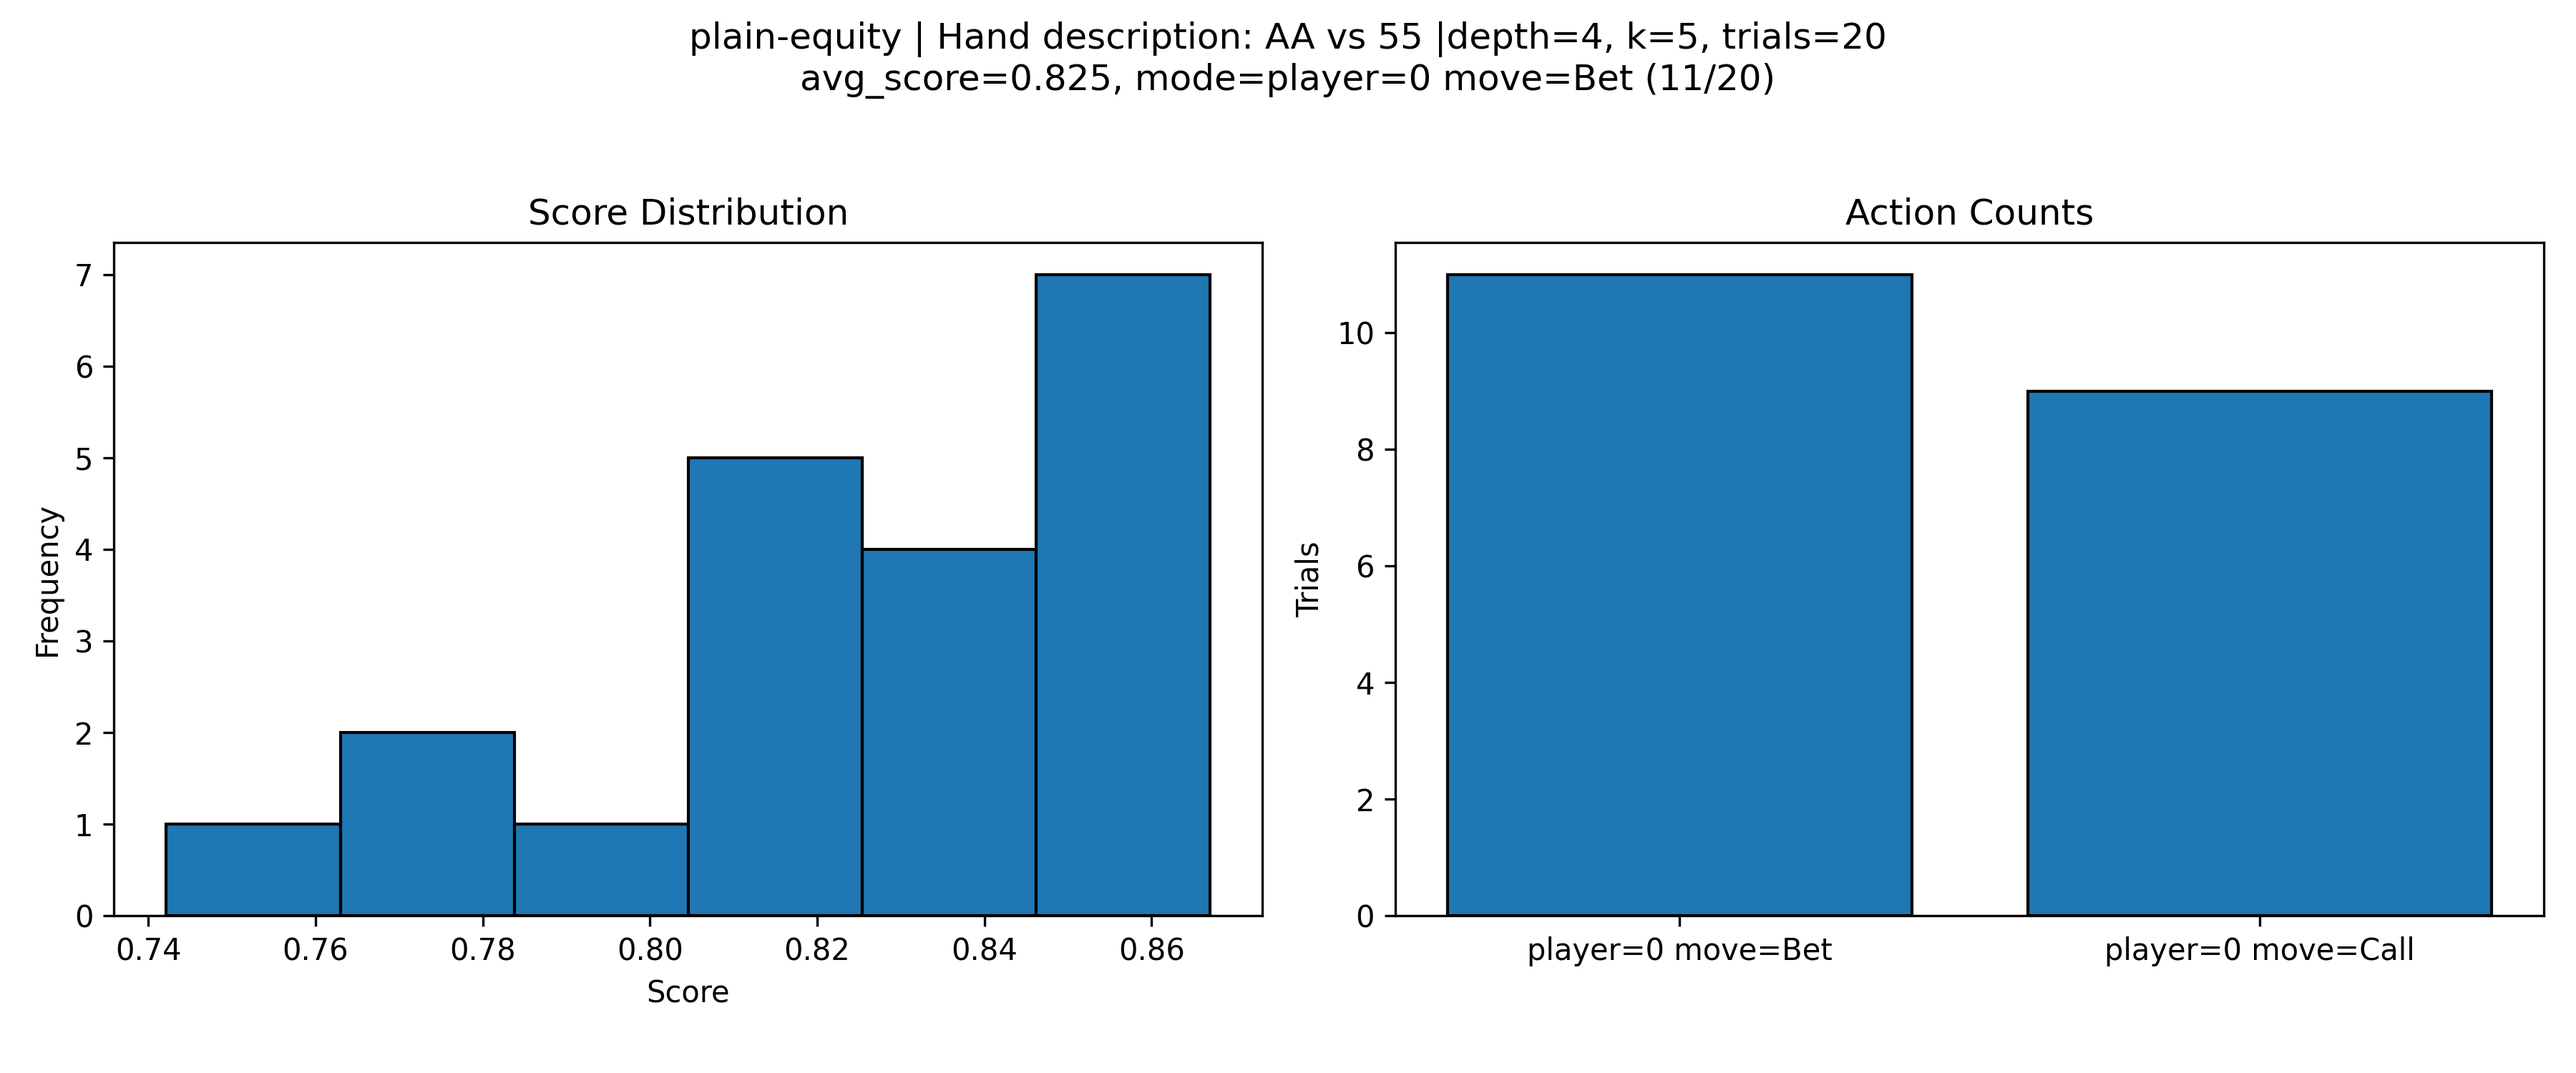
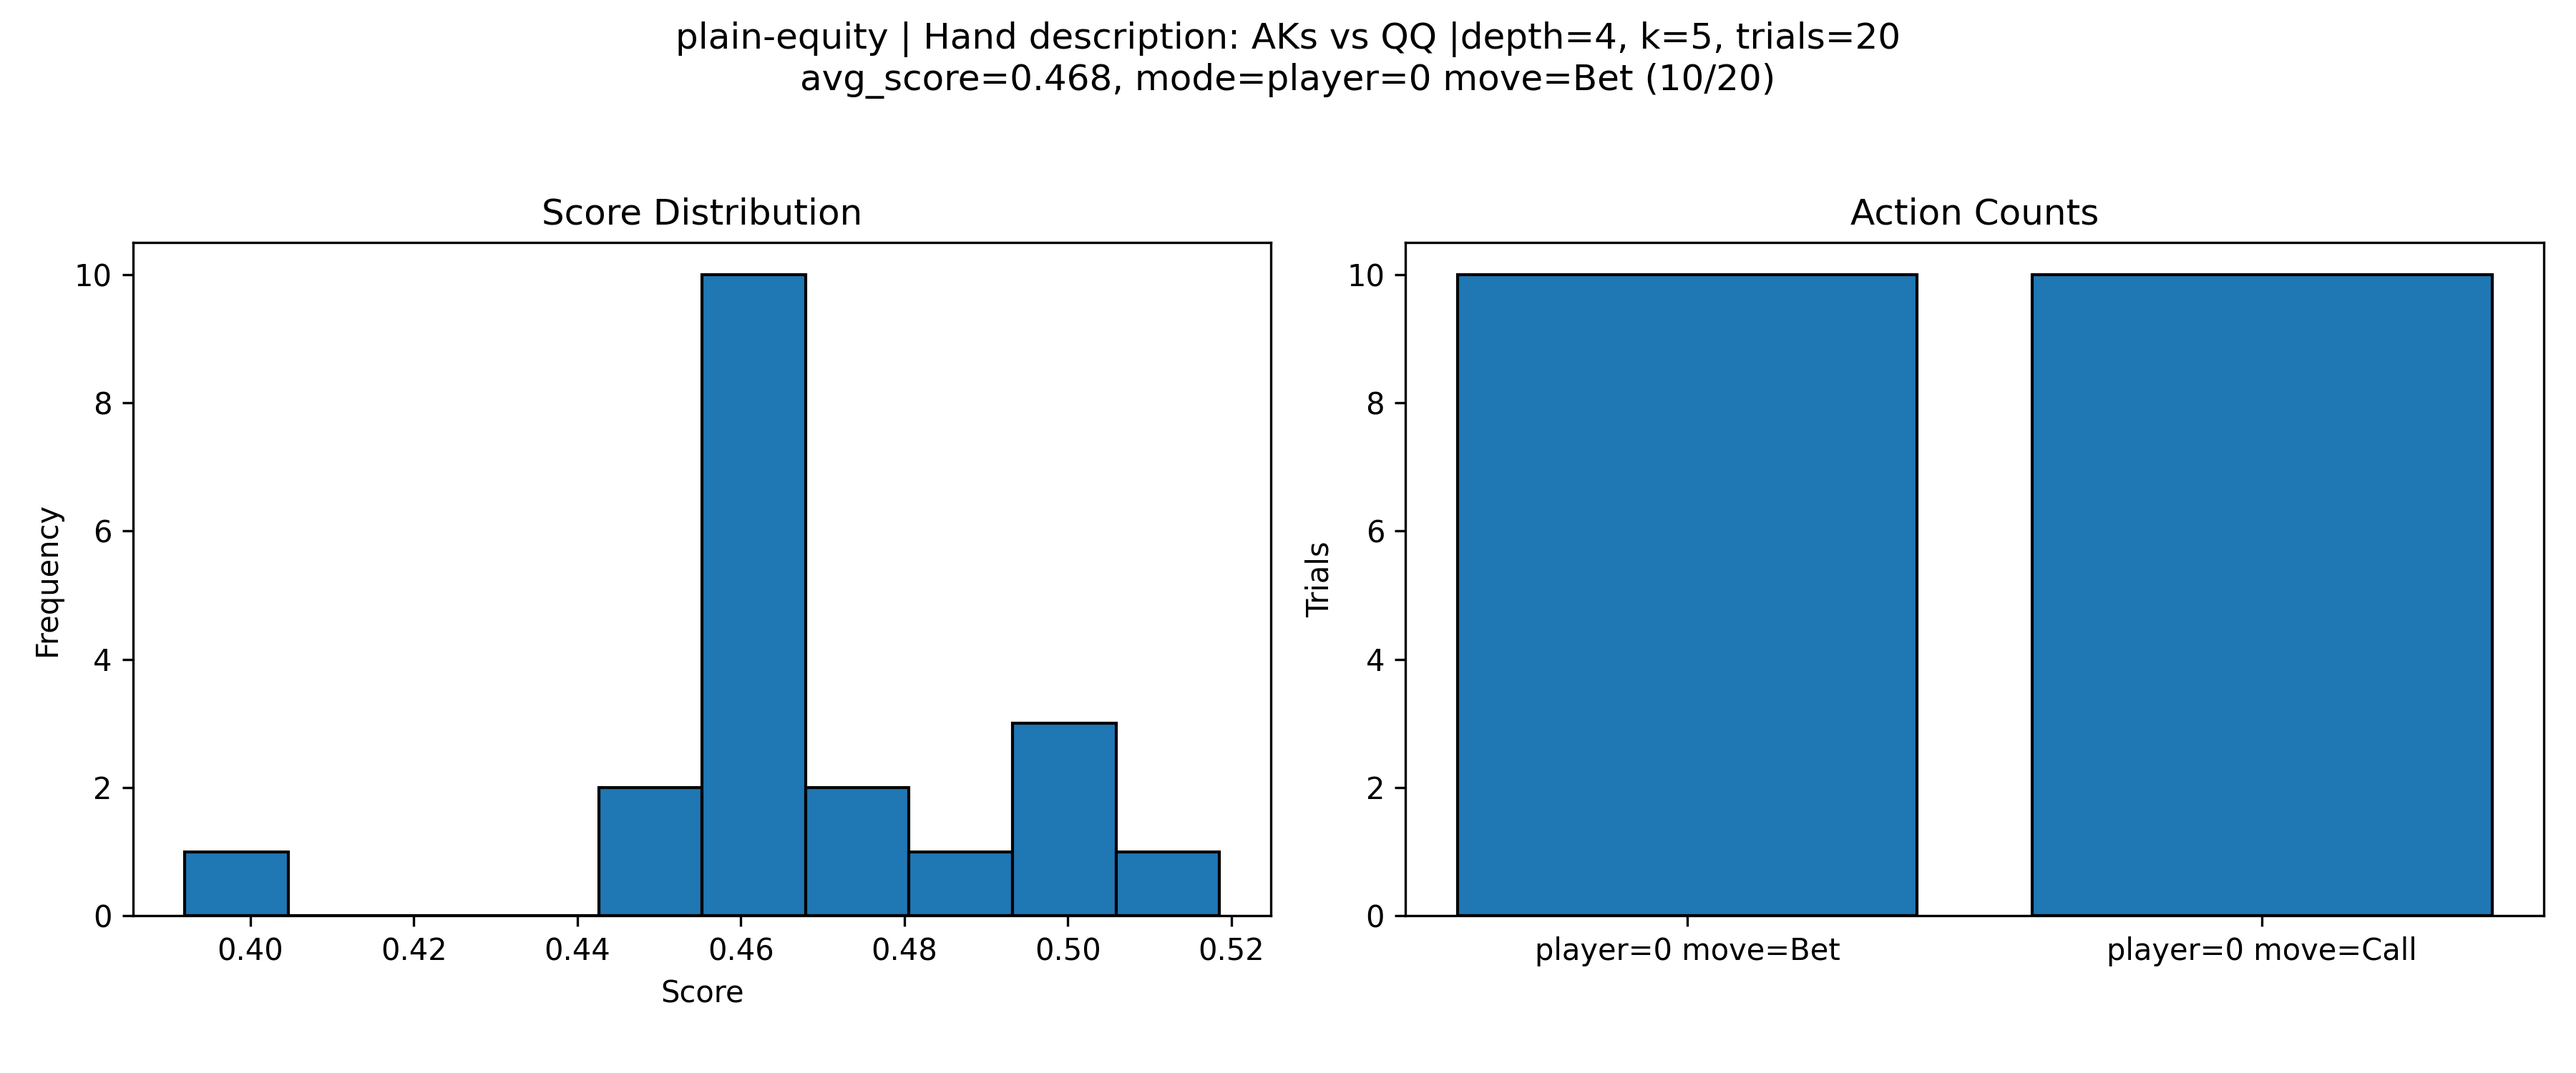
aks vs qq

diff --git a/ai-extension/expectiminimax/limit_main.py b/ai-extension/expectiminimax/limit_main.py
@@ -16,11 +16,11 @@ game = pyspiel.load_game(
     "numHoleCards=2,numBoardCards=0 3 1 1)"
 )
 base_state = game.new_initial_state()
-# deal two As to hero
-for a in (48, 49):
+# deal AKs (clubs) to hero
+for a in (48, 44):
     base_state.apply_action(a)
-# deal two 5s to villain
-for a in (13, 14):
+# deal two Qs (no club) to villain
+for a in (41, 42):
     base_state.apply_action(a)
 
 depth = 4
@@ -29,9 +29,9 @@ trials = 20
 
 # now loop over heuristics
 for fn, name in [
-    # (h_imperfect_info_weighted_ctrb_limit, "imperf"),
-    # (h_perfect_info_weighted_ctrb_limit, "ctrb‑weighted"),
-    # (h_perfect_info_weighted_total_limit, "total‑weighted"),
+    (h_imperfect_info_weighted_ctrb_limit, "imperf"),
+    (h_perfect_info_weighted_ctrb_limit, "ctrb‑weighted"),
+    (h_perfect_info_weighted_total_limit, "total‑weighted"),
     (h_perfect_info_limit, "plain‑equity"),
 ]:
     run_and_plot_limit(
@@ -42,5 +42,5 @@ for fn, name in [
         k_samples,
         trials,
         "../ai-extension/graphs",
-        "AA vs 55",
+        "AKs vs QQ",
     )

diff --git a/ai-extension/expectiminimax/limit_imperfect_main.py b/ai-extension/expectiminimax/limit_imperfect_main.py
@@ -25,5 +25,12 @@ k_samples = 5
 trials = 5
 
 run_and_plot_limit(
-    base_state, depth, h_imperfect_info_weighted_ctrb_limit, "imperf", k_samples, trials
+    base_state,
+    depth,
+    h_imperfect_info_weighted_ctrb_limit,
+    "imperf",
+    k_samples,
+    trials,
+    "../ai-extension/graphs",
+    "AA vs 55",
 )
